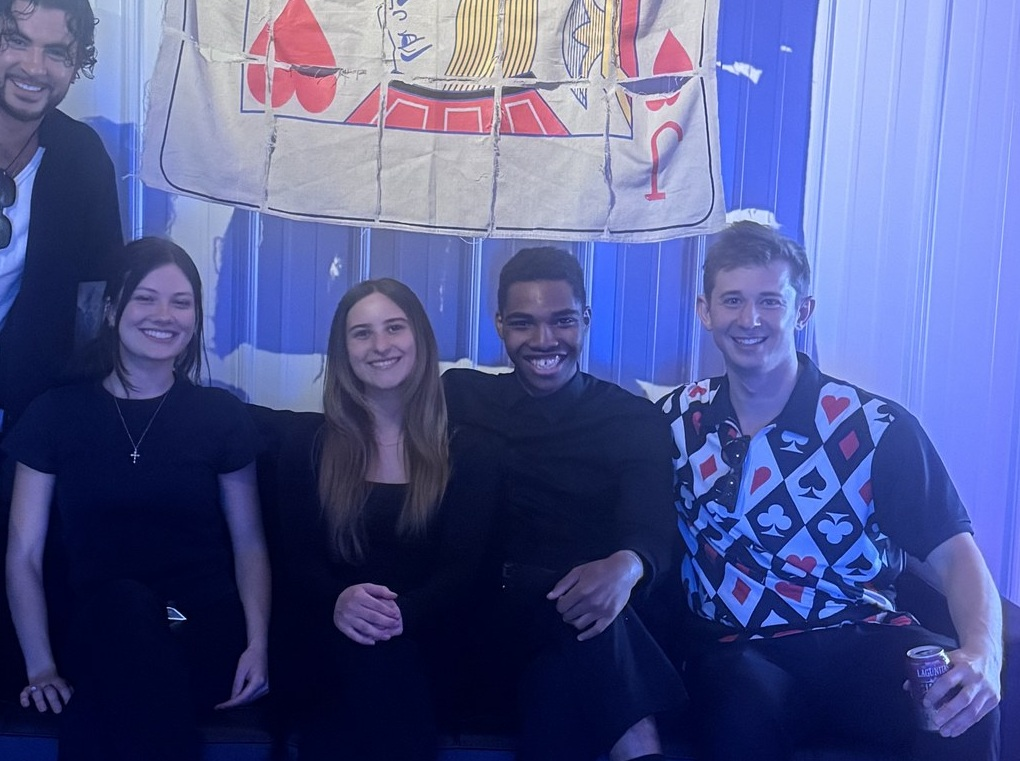
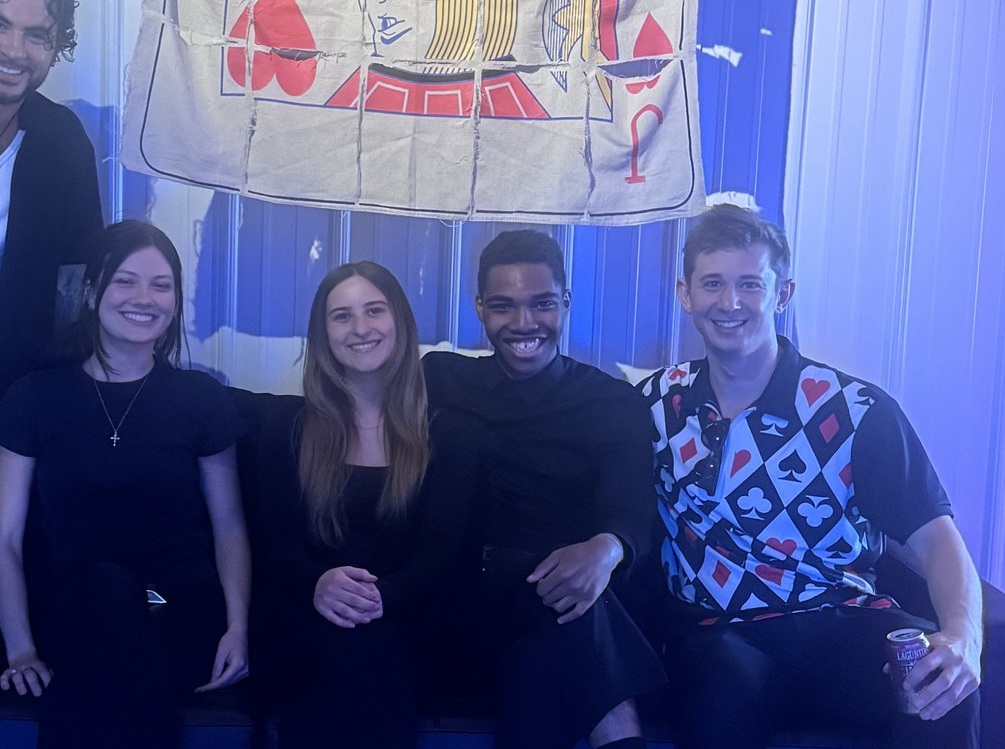
Swap Borderland home photo and tighten Results copy.
Use the chosen event-team still, put 151 under 162, and clarify nights ran different games.

diff --git a/work/borderland.html b/work/borderland.html
@@ -65,7 +65,7 @@
           <div class="kpi">
             <div class="n">5</div>
             <p class="l">Tournament nights across Detroit venues</p>
-            <div class="src">Chroma → Tangent → Lincoln → Black Heart → Russell</div>
+            <div class="src">Different games each night · Chroma → Russell</div>
           </div>
           <div class="kpi">
             <div class="n">4</div>
@@ -96,6 +96,11 @@
               <td class="why">Played their way in — not just a signup page</td>
             </tr>
             <tr>
+              <td>151</td>
+              <td>Phone numbers left voluntarily (optional field)</td>
+              <td class="why">Hard opt-in most products never get</td>
+            </tr>
+            <tr>
               <td>93%</td>
               <td>Voluntary phone opt-in on the interest form (151 of 162)</td>
               <td class="why">After winning the entry game — field still optional</td>
@@ -106,14 +111,9 @@
               <td class="why">Came back for another night</td>
             </tr>
             <tr>
-              <td>151</td>
-              <td>Phone numbers left voluntarily (optional field)</td>
-              <td class="why">Hard opt-in most products never get</td>
-            </tr>
-            <tr>
               <td>5</td>
               <td>Tournament nights: Chroma → Tangent → Lincoln → Black Heart → Russell</td>
-              <td class="why">Same product, repeated live delivery</td>
+              <td class="why">Different games each night — new venue, new chapter, same ops stack</td>
             </tr>
             <tr>
               <td>5</td>

diff --git a/index.html b/index.html
@@ -1017,7 +1017,7 @@
               <span class="case-read">Read full case study</span>
             </div>
             <div class="case-visual">
-              <img src="assets/borderland/crew-card.jpg" alt="Borderland crew at a Detroit arena — Jack of Hearts backdrop" />
+              <img src="assets/borderland/event-team.jpg" alt="Borderland event team at a Detroit arena — Jack of Hearts backdrop" />
               <span class="badge">Event team</span>
             </div>
           </a>